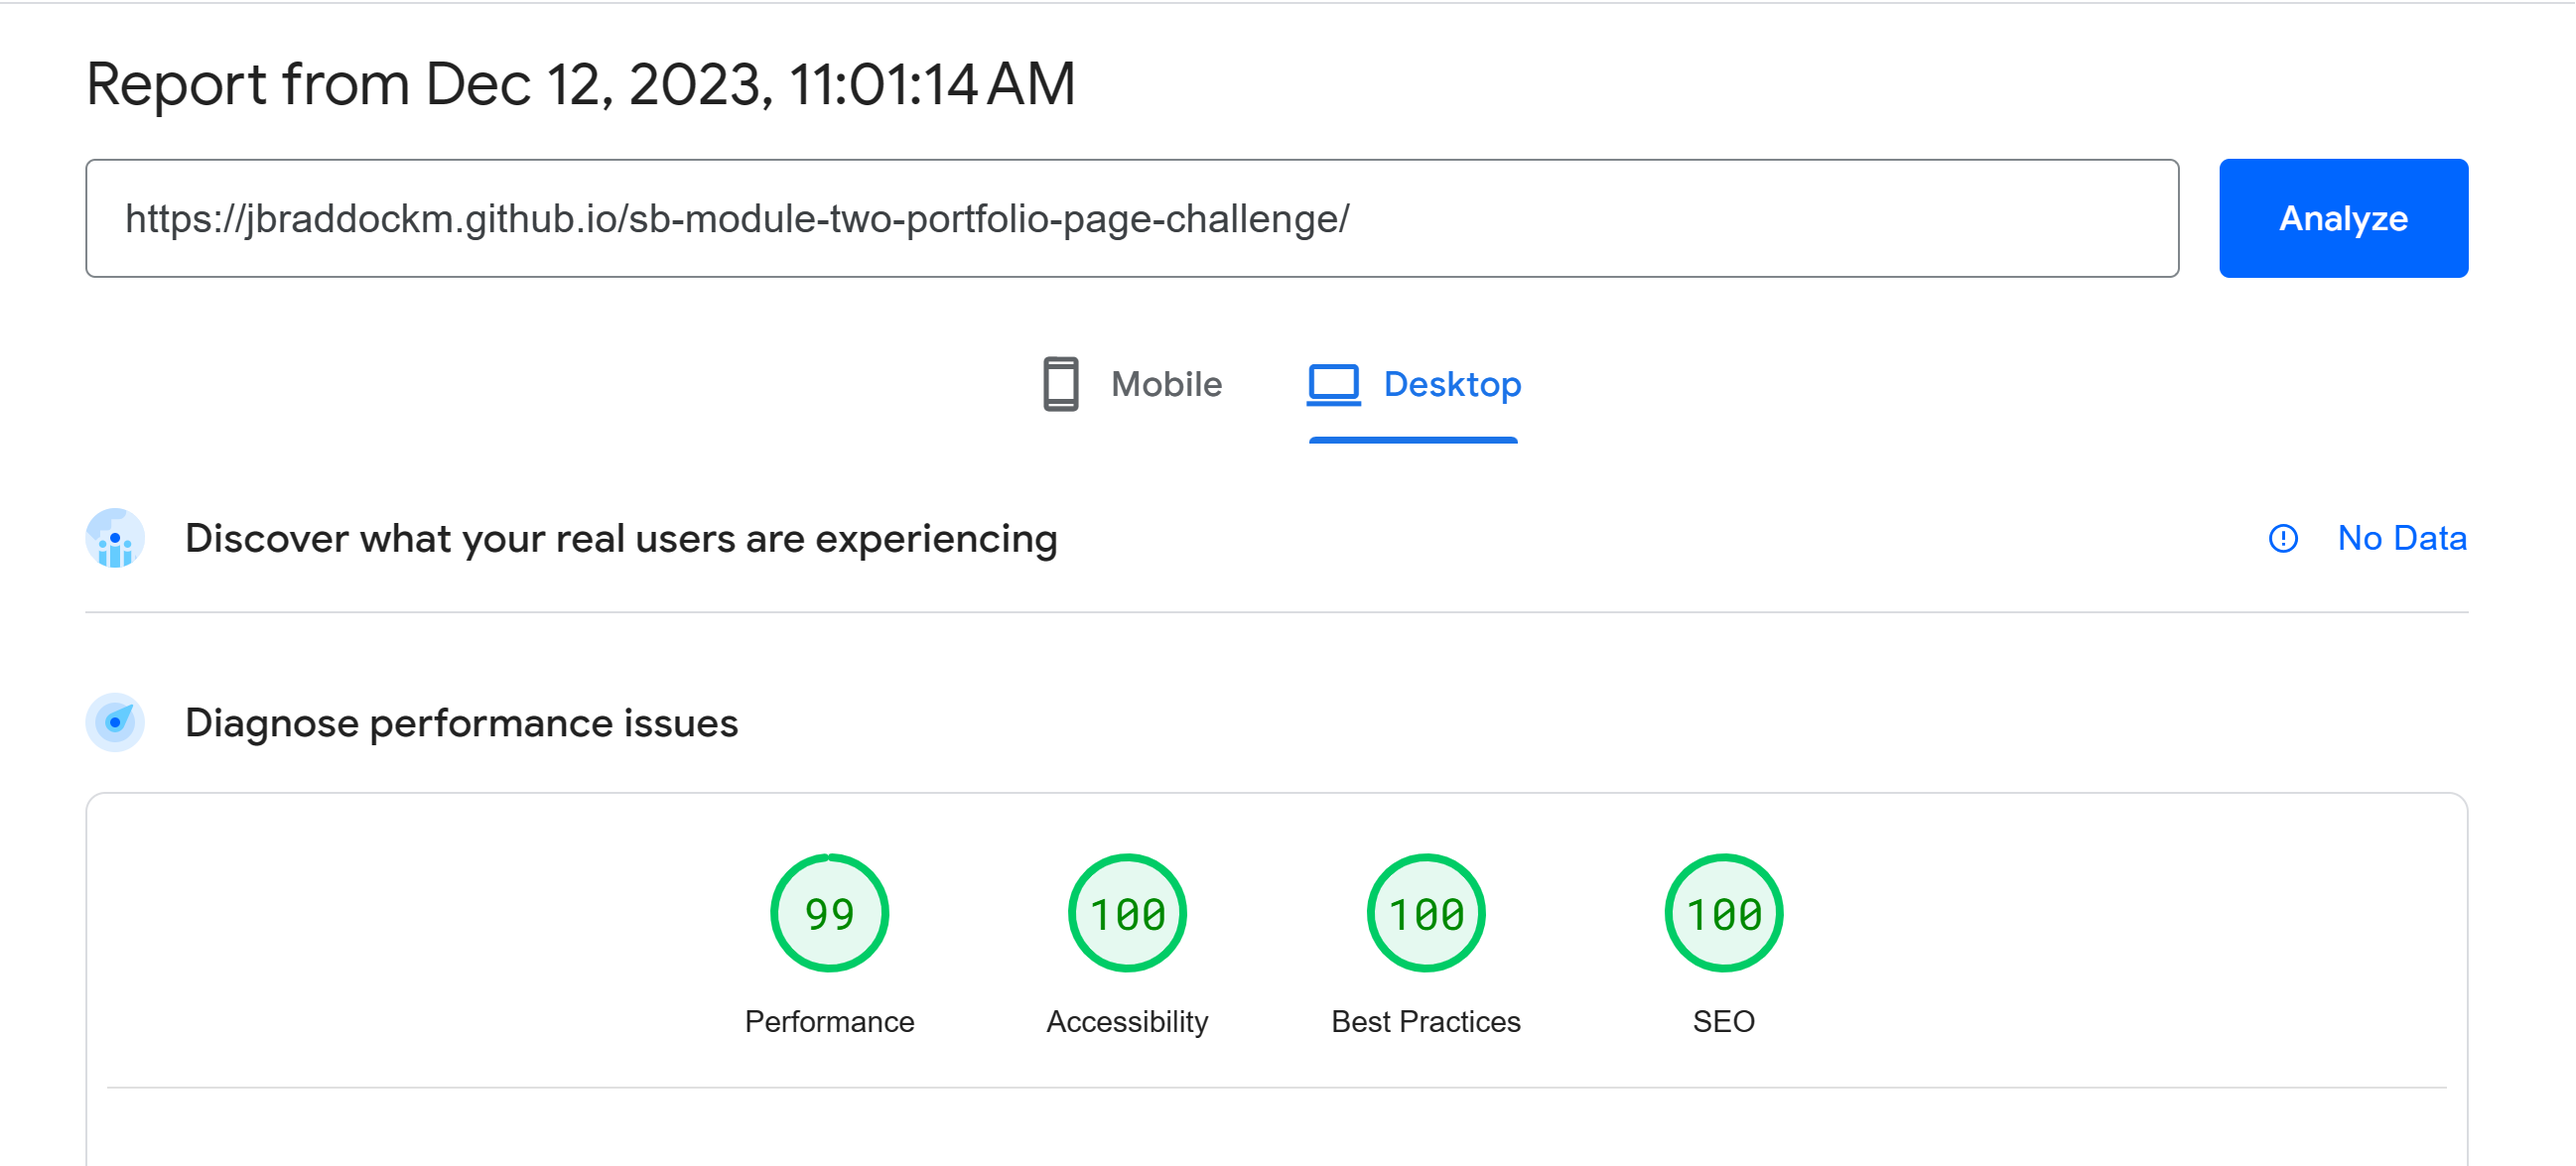
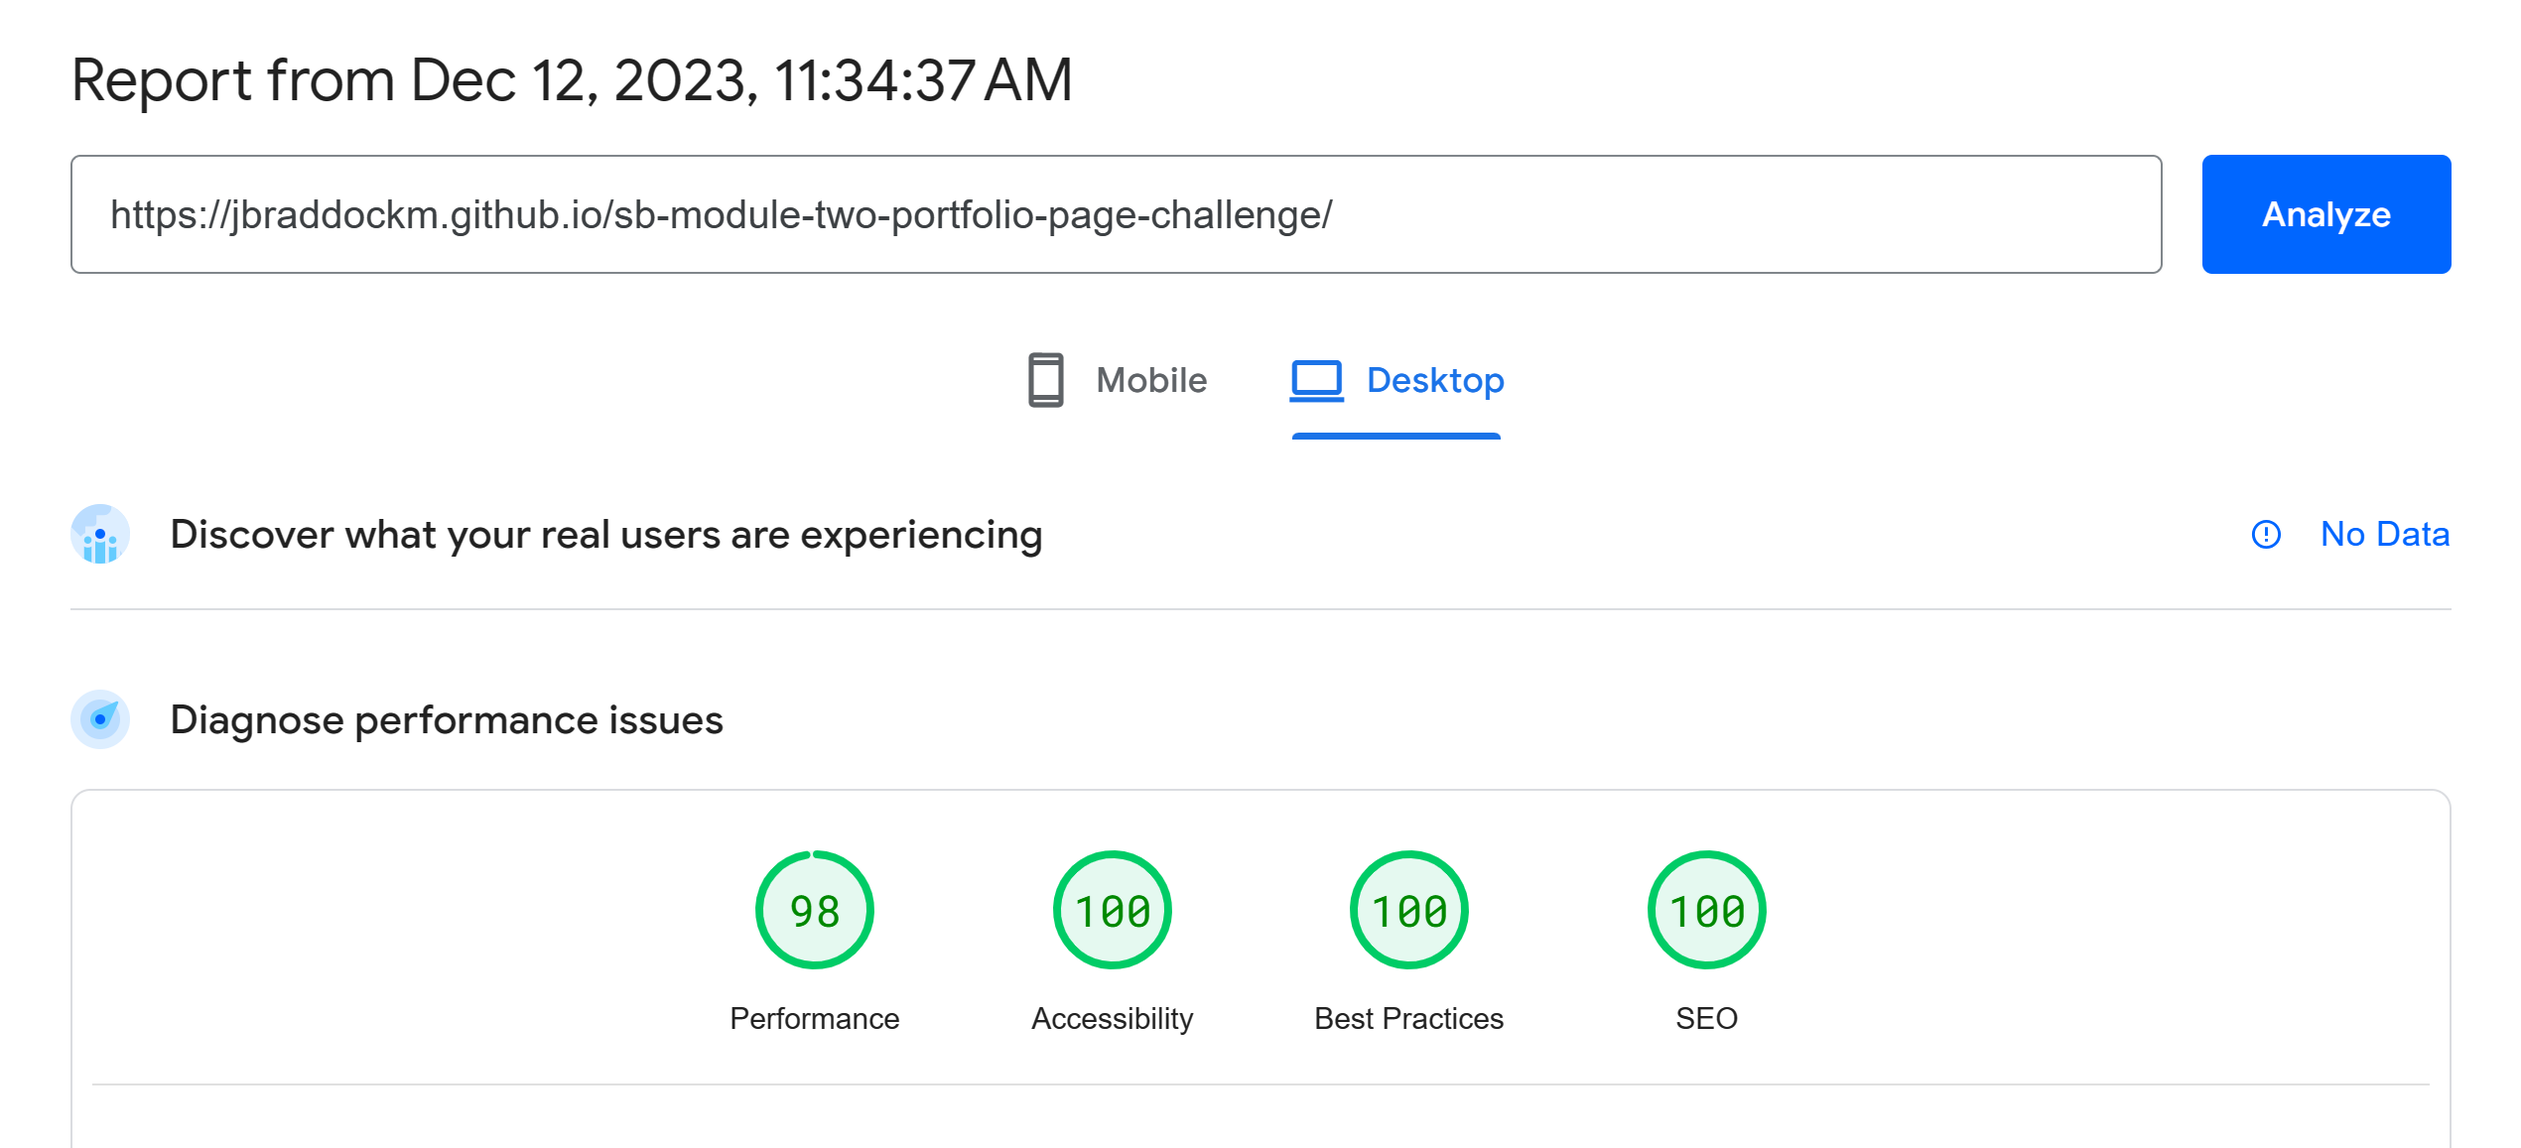
Updated Google PageSpeed Insights score after adding Google Fonts.

diff --git a/README.md b/README.md
@@ -34,8 +34,8 @@ N/A
 The application has the following features and best practices implemented.
 
 ![Google Pagespeed Score](google-pagespeed-insights-result.png)
-A custom caching solution is not possible to set in GitHub pages, hence the Performance score 99.
-The app has the same score in mobile.
+A custom caching solution is not possible to set in GitHub pages, and using Google Font affects performance, hence the Performance score 98.
+The app has the same score in mobile, except for performance, which is 89 due to Google Font usage.
 
 **HTML**
 * Semantic HTML elements
